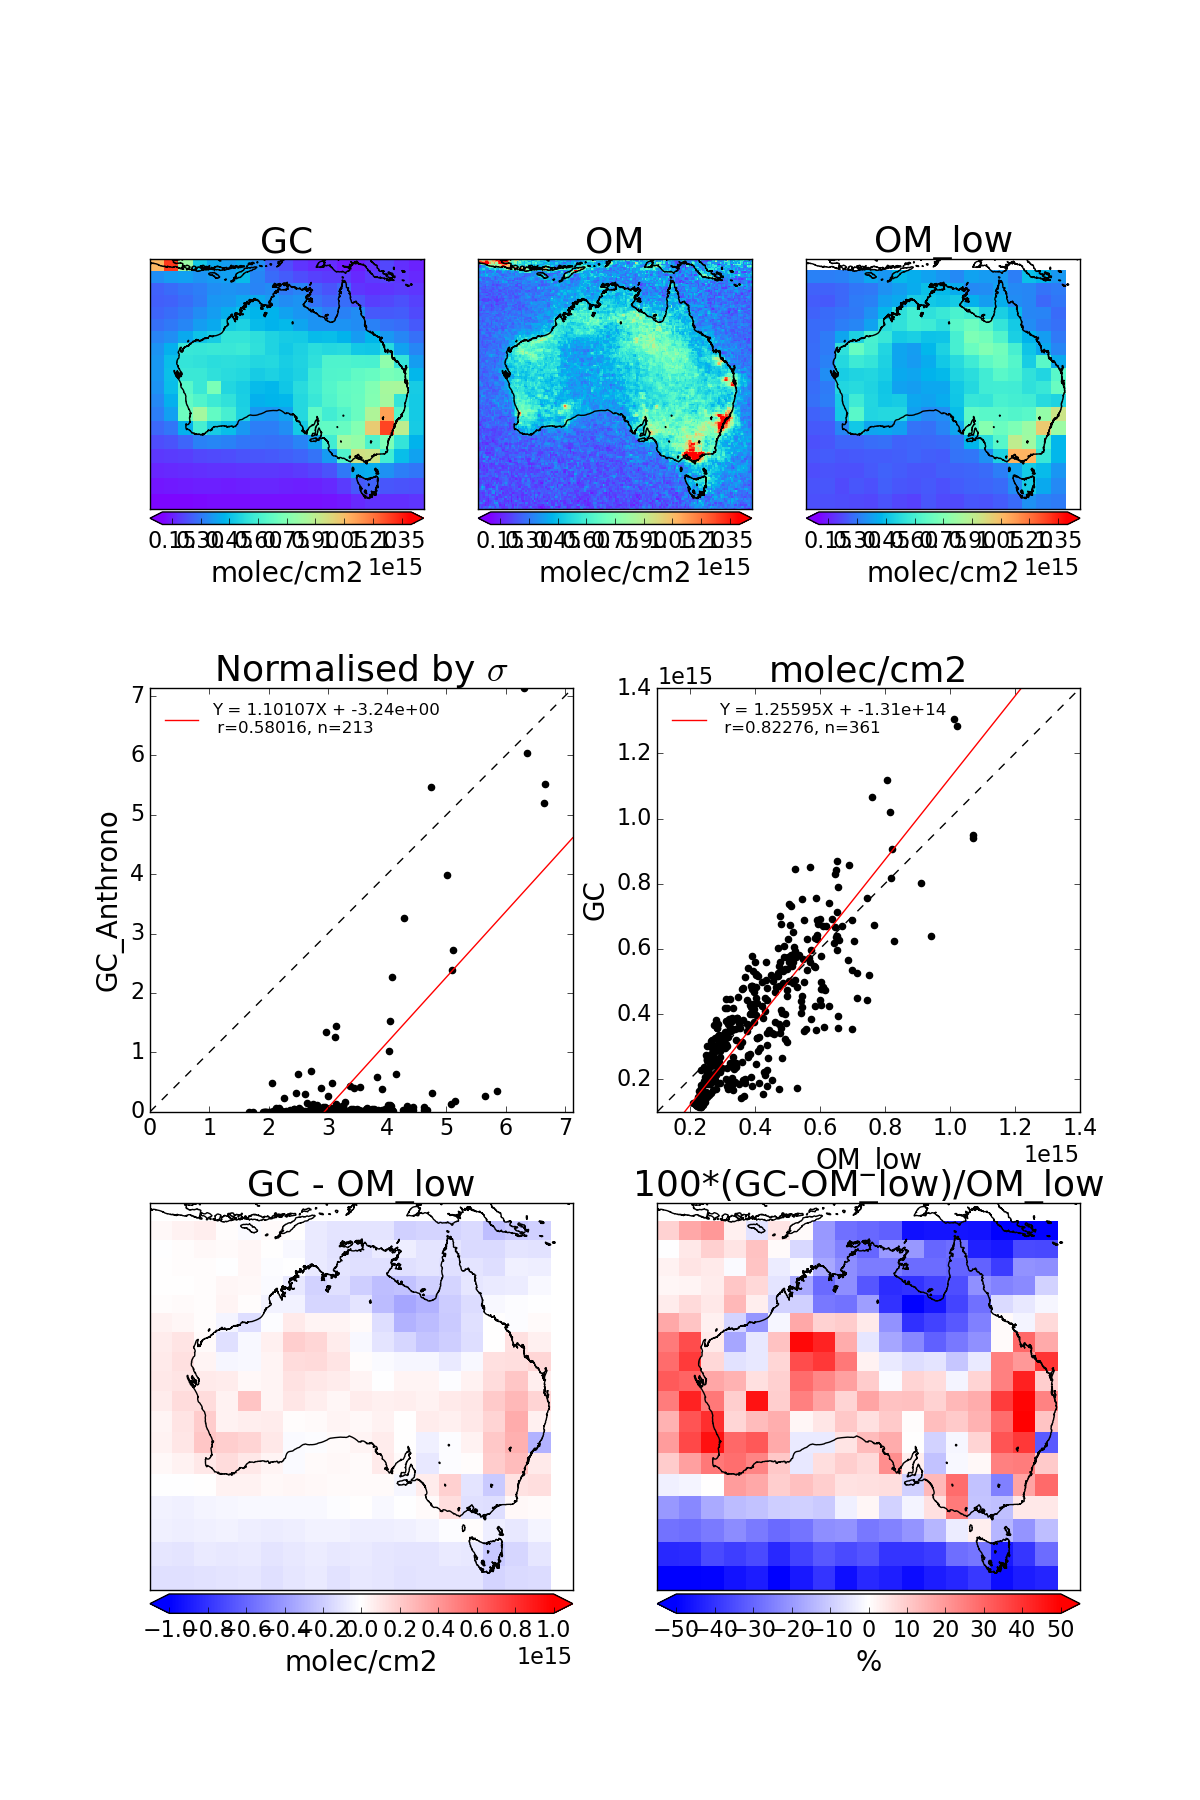
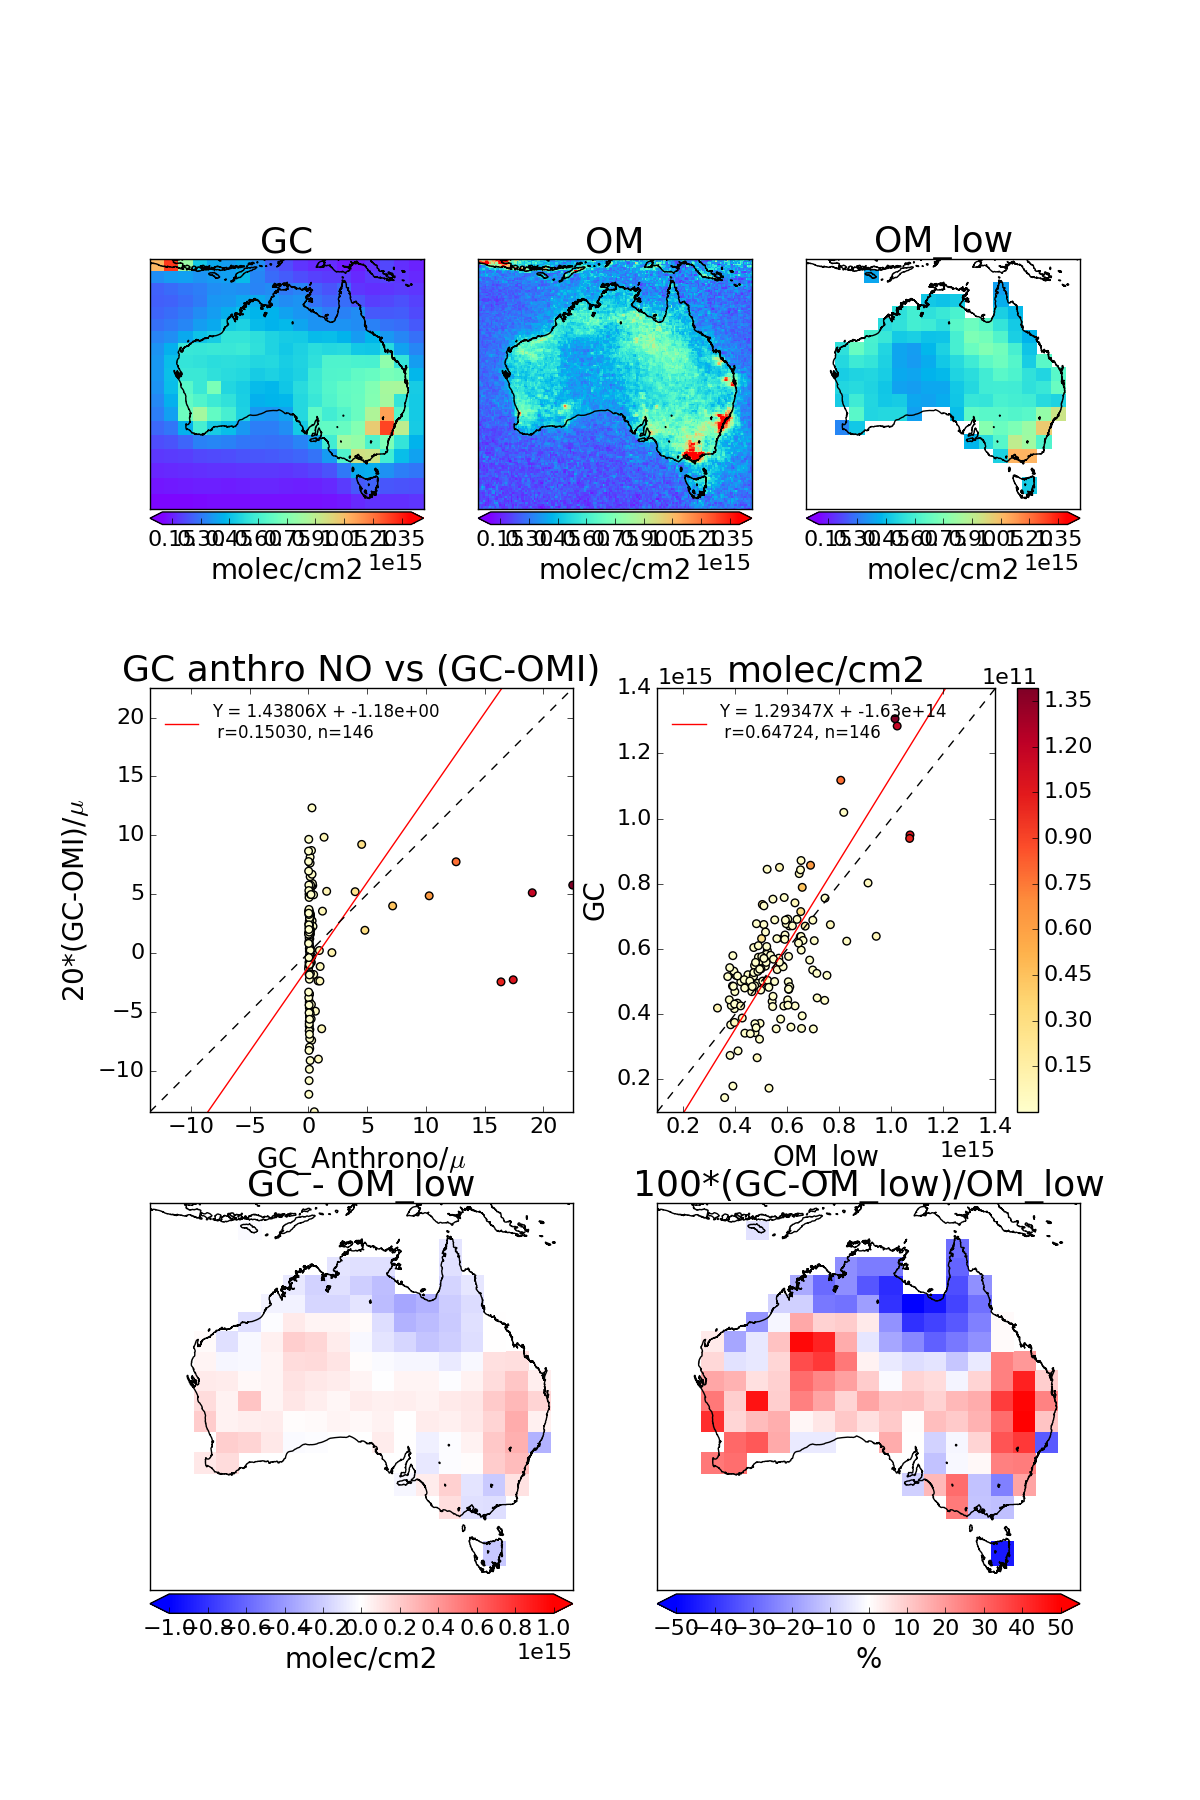
Updated OMNO2d comparison plots

diff --git a/GC_tests.py b/GC_tests.py
@@ -67,8 +67,6 @@ def HCHO_vs_temp(d0=datetime(2005,1,1),d1=None,region=SEA,regionlabel='SEA',regi
 
     # Read omhcho (reprocessed)
     omi=omhchorp(d0,d1,keylist=['latitude','longitude','VCC','gridentries'],ignorePP=True)
-    omilowres=omi.lower_resolution()
-
 
     # region + view area
     if regionplus is None:
@@ -291,6 +289,7 @@ def GC_vs_OMNO2d(d0=datetime(2005,1,1),d1=None,region=pp.__AUSREGION__):
     GC_tropno2=GC_tropno2[:,loni]
     GC_anthrono=GC_anthrono[lati,:]
     GC_anthrono=GC_anthrono[:,loni]
+    GC_anthrono[GC_anthrono<1]=np.NaN # remove zero emissions squares
     GC_lats=GC_lats[lati]
     GC_lons=GC_lons[loni]
     GC_lats_e=util.edges_from_mids(GC_lats)
@@ -299,6 +298,7 @@ def GC_vs_OMNO2d(d0=datetime(2005,1,1),d1=None,region=pp.__AUSREGION__):
     #OM_low=np.zeros([len(GC_lats),len(GC_lons)]) + np.NaN
     # reduce OMI resolution to that of GEOS-Chem:
     OM_low=util.regrid_to_lower(OM_tropno2,OM_lats,OM_lons,GC_lats_e,GC_lons_e)
+    assert OM_low.shape == GC_tropno2.shape, 'Reduced OMI Grid should match GC'
 
     # Lets mask the oceans at this point:
     oceanmask=util.get_mask(OM_low,lats=GC_lats,lons=GC_lons,maskocean=True)
@@ -310,17 +310,33 @@ def GC_vs_OMNO2d(d0=datetime(2005,1,1),d1=None,region=pp.__AUSREGION__):
     # Put a regression for each gridsquare:
     # This compares bias to anthropogenic emissions
     plt.sca(ax4)
-    GC_bias= GC_tropno2 - OM_low #/ OM_low # y axis
-    GC_anthrono_norm = GC_anthrono # normalise if desired for x axis
-    pp.plot_regression(GC_anthrono_norm.flatten(), GC_bias.flatten(),
-                       logscale=False, legendfont=12)
+    GC_bias= (GC_tropno2 - OM_low)
+    GC_bias_norm = 20*GC_bias/OM_low # y axis
+    GC_anthrono_norm = GC_anthrono/np.nanmean(GC_anthrono) # xaxis
+    GC_anthrono_norm2 = np.copy(GC_anthrono_norm)
+    # removes squares with 20% or less of mean anthro emissions
+    GC_anthrono_norm2[GC_anthrono_norm < 0.2] = np.NaN
+
+    regsize=30
+    pp.plot_regression(GC_anthrono_norm.flatten(), GC_bias_norm.flatten(),
+                       logscale=False, legendfont=12,
+                       colours=GC_anthrono.flatten(), cmap='YlOrRd',
+                       showcbar=False, size=regsize)
+    #pp.plot_regression(GC_anthrono_norm2.flatten(), GC_bias_norm.flatten(),
+    #                   logscale=False, colour='m',linecolour='m', diag=False,
+    #                   legendfont=12)
     plt.title('GC anthro NO vs (GC-OMI)')
-    plt.xlabel('GC_Anthrono')#GC.attrs['ANTHSRCE_NO']['units'])
-    plt.ylabel('GC-OMI NO2')
+    plt.xlabel('GC_Anthrono/$\mu$')#GC.attrs['ANTHSRCE_NO']['units'])
+    plt.ylabel('20*(GC-OMI)/$\mu$')
+
+    # Second regression showing GC vs OMI coloured by Anthrono
+    #
     plt.sca(ax5)
-    assert OM_low.shape == GC_tropno2.shape, 'Reduced OMI Grid should match GC'
+
     pp.plot_regression(OM_low.flatten(),GC_tropno2.flatten(),lims=[vmin,vmax],
-                       logscale=False, legendfont=12)
+                       logscale=False, legendfont=12, size=regsize,
+                       showcbar=True, colours=GC_anthrono.flatten(),
+                       cmap='YlOrRd')
     plt.title('molec/cm2')
     plt.ylabel('GC')
     plt.xlabel('OM_low')
@@ -873,14 +889,14 @@ if __name__=='__main__':
     all2005=[datetime(2005,1,1),util.last_day(datetime(2005,12,1))]
     summer05=[datetime(2005,1,1),util.last_day(datetime(2005,2,1))]
     d0=datetime(2005,1,1)
-    d1=datetime(2005,2,1)
+    d1=datetime(2005,1,5)
     region=SEA
     label='SEA'
     #for region, label in zip(subs,labels):
     #    HCHO_vs_temp(d0=summer05[0],d1=summer05[1],region=region,regionlabel=label)
 
 
-    GC_vs_OMNO2d(d0=d0,d1=d1)
+    GC_vs_OMNO2d(d0=d0,d1=summer05[1])
 
     #GC_vs_OMNO2d(month=datetime(2005,1,1))
     #compare_to_campaigns_daily_cycle()

diff --git a/utilities/plotting.py b/utilities/plotting.py
@@ -392,7 +392,12 @@ def plot_rec(bmap, inlimits, color=None, linewidth=1):
 def plot_regression(X,Y, lims=None, logscale=True,
                      legend=True, legendfont=22,
                      colour='k',linecolour='r', diag=True, oceanmask=None,
-                     verbose=False):
+                     colours=None,size=None, cmap='rainbow', showcbar=True):
+    '''
+        Regression between X and Y
+        Optional to colour by some third list of equal length by setting colours
+        Can alternatively split by oceanmask.
+    '''
     X=np.array(X)
     Y=np.array(Y)
     nans=np.isnan(X) + np.isnan(Y)
@@ -401,7 +406,14 @@ def plot_regression(X,Y, lims=None, logscale=True,
     lims0=np.array(lims); lims=np.array(lims)
 
     if oceanmask is None:
-        plt.scatter(X[~nans], Y[~nans],color=colour)
+        if colours is None:
+            plt.scatter(X[~nans], Y[~nans],color=colour)
+        else:
+            cm = plt.cm.get_cmap(cmap)
+            sc=plt.scatter(X[~nans], Y[~nans], c=colours[~nans], s=size,
+                           cmap=cm)
+            if showcbar:
+                plt.colorbar(sc)
         m,b,r,CI1,CI2=RMA(X[~nans], Y[~nans]) # get regression
         plt.plot(lims, m*np.array(lims)+b,color=linecolour,
                  label='Y = %.5fX + %.2e\n r=%.5f, n=%d'%(m,b,r,np.sum(~nans)))
@@ -427,7 +439,6 @@ def plot_regression(X,Y, lims=None, logscale=True,
         plt.plot( lims, m*lims+x0, color='blue',
                 label='Ocean: Y = %.5fX + %.2e, r=%.5f'%(m,x0,r))
 
-    if verbose:
         print('Land: Y = %.5fX + %.2e; r=%.5f'%(lm,lx0,lr))
         print('with CI ranges of slope %2.5f, %2.5f'%(lci1[0][0],lci1[0][1]))
         print('with CI ranges of intercept %1.5e, %1.5e'%(lci1[1][0],lci1[1][1]))
@@ -498,7 +509,7 @@ def compare_maps(datas,lats,lons,pname=None,titles=['A','B'], suptitle=None,
 
 
     # regrid the lower resolution data to upper unless flag set
-    # Alats is higher resolution    
+    # Alats is higher resolution
     if len(Alats) > len(Blats):
         if lower_resolution:
             A = regrid(A,Alats,Alons,Blats,Blons)
